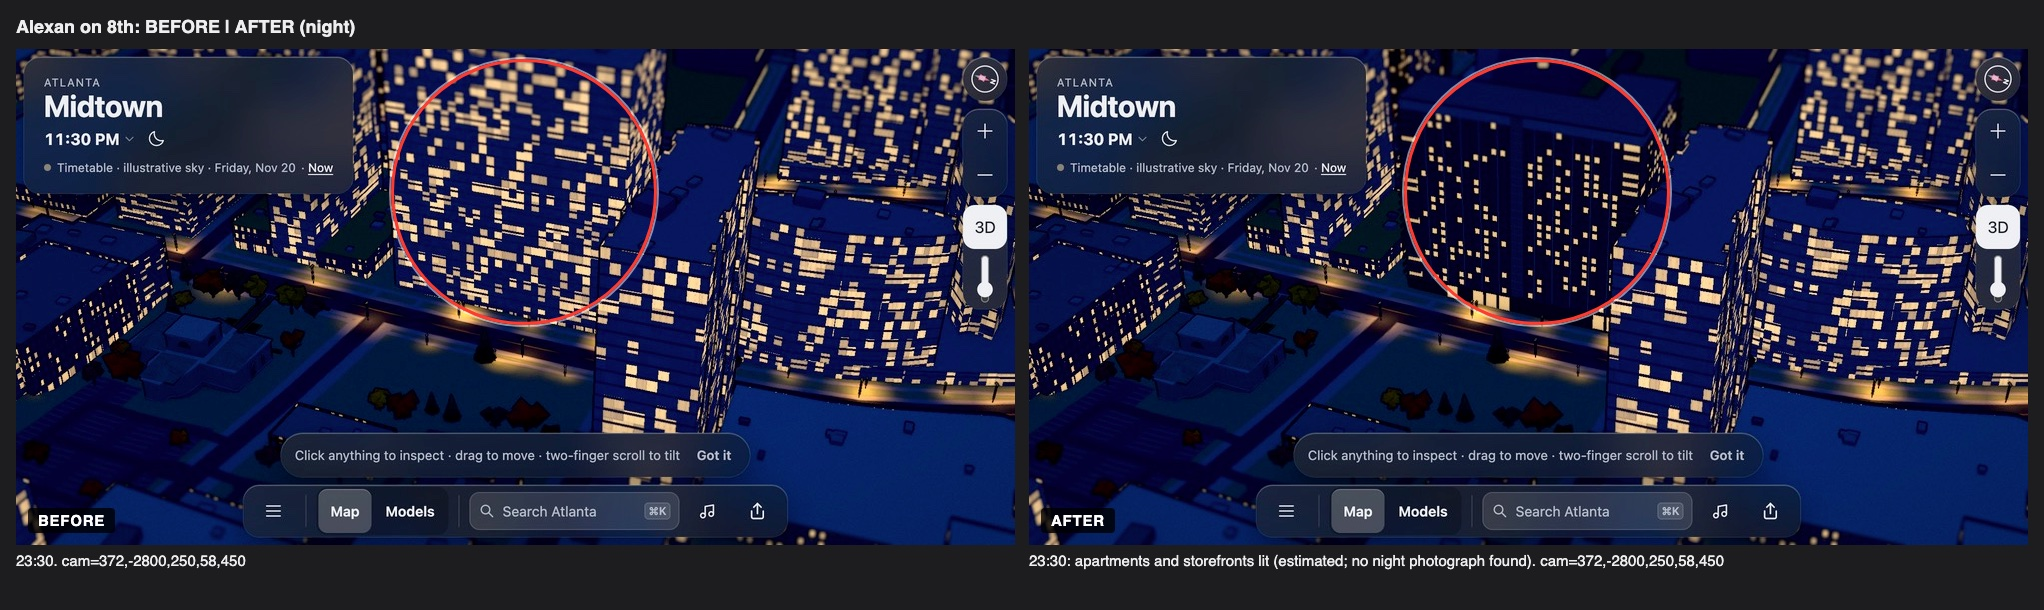
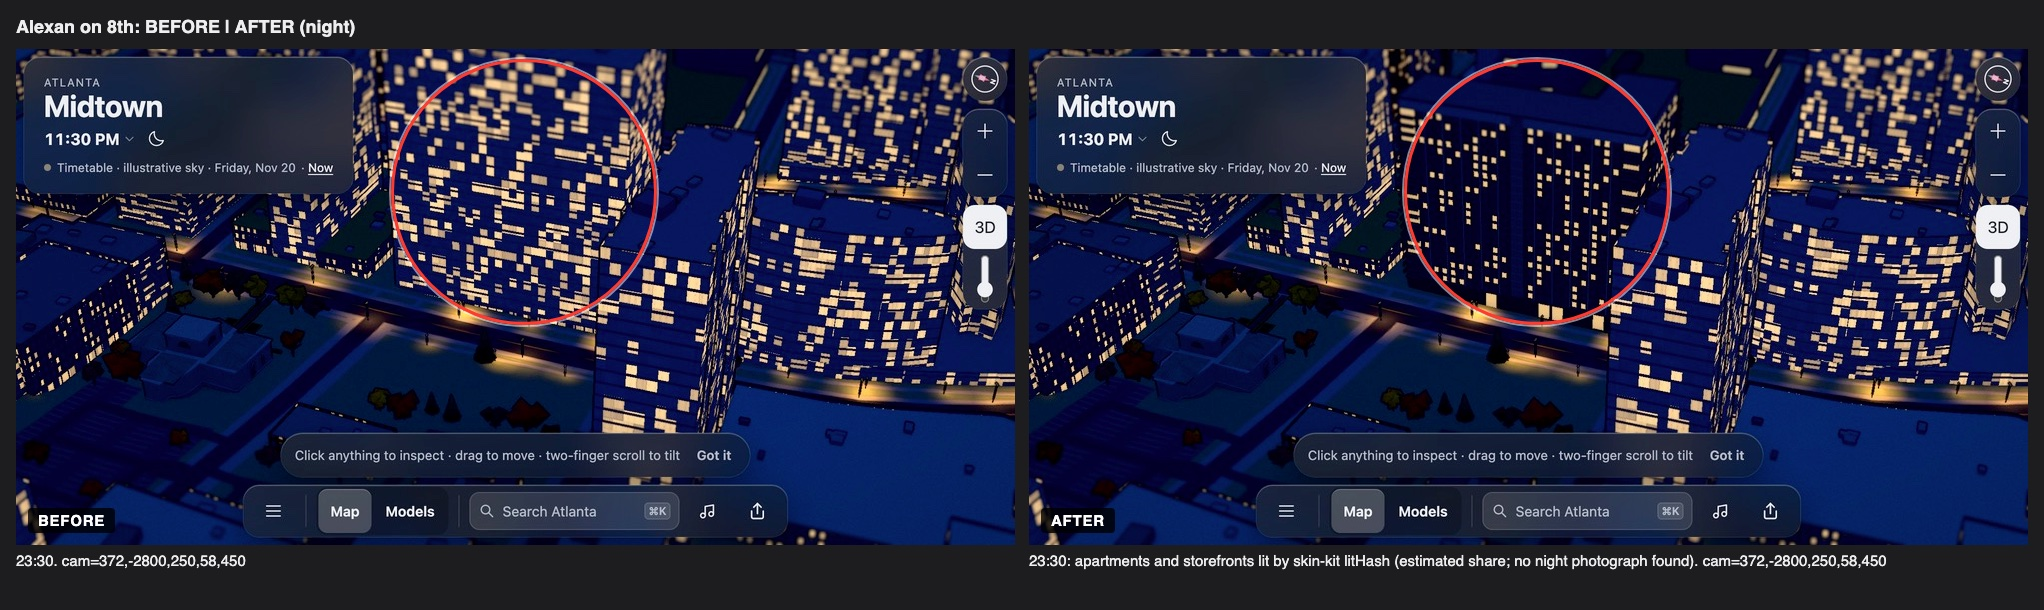
Light Alexan's windows with skin-kit litHash

diff --git a/web/src/city/midtown-skyline-alexan.ts b/web/src/city/midtown-skyline-alexan.ts
@@ -1,7 +1,6 @@
 import type { P2 } from '../vignette/geom';
 import type { localLandmarkShell } from './landmark-shell';
-import { along, faces, outwardSign, wound } from './skin-kit';
-import { cellHash, cellSeed } from './skin-lit';
+import { along, faces, litHash, outwardSign, seedOf, wound } from './skin-kit';
 
 type Shell = NonNullable<ReturnType<typeof localLandmarkShell>>;
 
@@ -26,7 +25,7 @@ export const alexanId = 'osm:way:789975430';
 export function alexanOn8th(shell: Shell) {
   const { body, lights } = shell;
   const ring = wound(shell.ring, 1);
-  const out = outwardSign(ring), pitch = (ROOF - 3.5 - BASE) / FLOORS, seed = cellSeed(alexanId);
+  const out = outwardSign(ring), pitch = (ROOF - 3.5 - BASE) / FLOORS, seed = seedOf(alexanId);
   shell.prism(ring, shell.base, ROOF, PANEL, '#a9a69f');
   const east = Math.max(...ring.map(([x]) => x));
   faces(ring, (a, b, len, face) => {
@@ -35,7 +34,7 @@ export function alexanOn8th(shell: Shell) {
     // Street storefront and lobby glass.
     body.quad(p(.3, .4, .06), p(.3, BASE - .6, .06), p(len - .3, BASE - .6, .06), p(len - .3, .4, .06), STORE);
     for (let i = 0, n = Math.max(1, Math.round(len / 5)); i < n; i++)
-      if (cellHash(seed, face, 0, i) < .4)
+      if (litHash(seed, face, 0, i) < .4)
         lights.quad(p((i + .1) * len / n, .6, .1), p((i + .1) * len / n, BASE - .9, .1), p((i + .9) * len / n, BASE - .9, .1), p((i + .9) * len / n, .6, .1), STORE);
     // The glass slot, centred on the West Peachtree face.
     const slot = westPeachtree ? [len / 2 - 2.2, len / 2 + 2.2] : null;
@@ -46,7 +45,7 @@ export function alexanOn8th(shell: Shell) {
       if (slot && r > slot[0] - .5 && l < slot[1] + .5) continue;
       body.quad(p(l, BASE, .06), p(l, ROOF - 4, .06), p(r, ROOF - 4, .06), p(r, BASE, .06), WINDOW);
       for (let j = 0; j < FLOORS; j++)
-        if (cellHash(seed, face, j + 1, i + 1) < .35) {
+        if (litHash(seed, face, j + 1, i + 1) < .35) {
           const y = BASE + j * pitch;
           lights.quad(p(l, y + .6, .1), p(l, y + pitch - .5, .1), p(r, y + pitch - .5, .1), p(r, y + .6, .1), WINDOW);
         }
@@ -72,7 +71,7 @@ export function alexanOn8th(shell: Shell) {
         const y = BASE + j * pitch;
         body.quad(p(s0, y - .3, 1.7), p(s0, y, 1.7), p(s1, y, 1.7), p(s1, y - .3, 1.7), SLAB);
         body.quad(p(s0, y, 1.75), p(s0, y + 1, 1.75), p(s1, y + 1, 1.75), p(s1, y, 1.75), RAIL);
-        if (cellHash(seed, face + 40, j, s0 > 1 ? 1 : 0) < .35)
+        if (litHash(seed, face + 40, j, s0 > 1 ? 1 : 0) < .35)
           lights.quad(p(s0 + .3, y + .3, .1), p(s0 + .3, y + pitch - .5, .1), p(s1 - .3, y + pitch - .5, .1), p(s1 - .3, y + .3, .1), WINDOW);
       }
     }

diff --git a/docs/alexan-on-8th.md b/docs/alexan-on-8th.md
@@ -23,7 +23,7 @@ The bay widths, balcony positions and slot width are estimated from the photogra
 
 ## Night
 
-City lights 35% of apartments and 40% of storefronts, chosen per window by a cell hash of (face, floor, bay). The stand-in `skin-lit.ts` will switch to skin-kit's `litHash` when #470 lands. With no night photograph, City adds no crown or deck lighting.
+City lights 35% of apartments and 40% of storefronts, chosen per window by skin-kit's `litHash(seedOf(id), face, floor, bay)`. With no night photograph, City adds no crown or deck lighting.
 
 ## Captures
 
